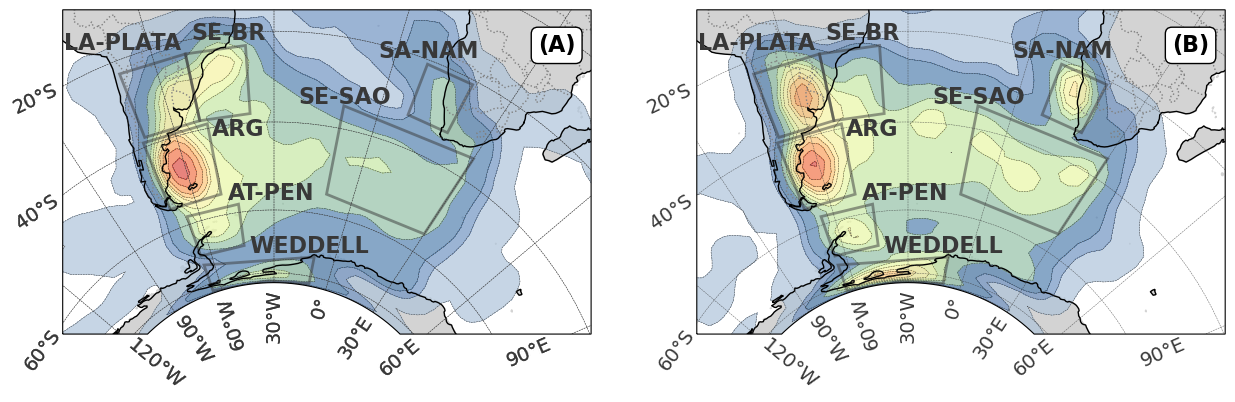
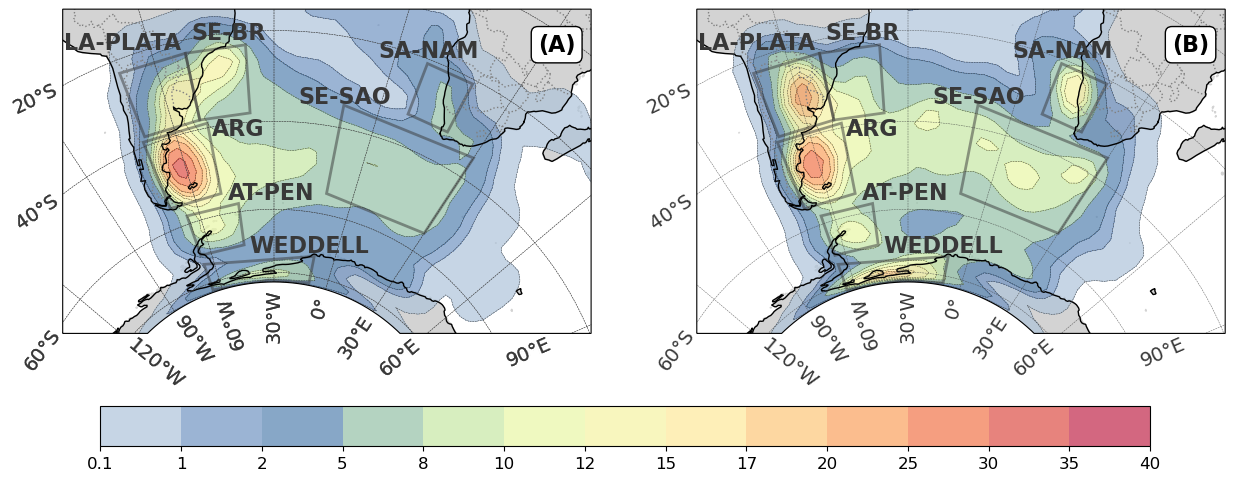
Fixed colorbar

diff --git a/src_manuscript_life-cycle/genesis_regions.py b/src_manuscript_life-cycle/genesis_regions.py
@@ -77,8 +77,8 @@ def plot_genesis_density(fig, ax, seasonal_data, i):
     ax.contour(lon, lat, seasonal_data, colors='#383838', linewidths=0.35, levels=levels, norm=norm, linestyles='dashed', transform=ccrs.PlateCarree())
     props = dict(boxstyle='round', facecolor='white')
     ax.text(27, -3, labels[i], transform=ccrs.PlateCarree(), ha='left', va='top', fontsize=16, fontweight='bold', bbox=props)
-    if i == 3:
-        cbar_axes = fig.add_axes([0.15, 0.01, 0.7, 0.04])
+    if i == 1:
+        cbar_axes = fig.add_axes([0.15, 0.22, 0.7, 0.04])
         ticks = np.round(levels, decimals=2)
         colorbar = plt.colorbar(cf, cax=cbar_axes, ticks=ticks, format='%g', orientation='horizontal')
         colorbar.ax.tick_params(labelsize=12)
@@ -86,12 +86,9 @@ def plot_genesis_density(fig, ax, seasonal_data, i):
 
 def main():
     fig, axs = create_map_and_axes()
-    #add_gridlines_and_continents(axs[0, 0])  # Apply gridlines and continents to the first subplot
     add_gridlines_and_continents(axs[0])
 
     # Define seasons and corresponding subplot positions
-    # seasons = ['DJF', 'MAM', 'JJA', 'SON']
-    # subplot_positions = [(0, 0), (0, 1), (1, 0), (1, 1)]
     seasons = ['DJF','JJA']
     subplot_positions = [0, 1]
 
